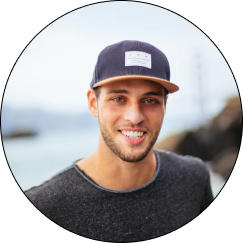
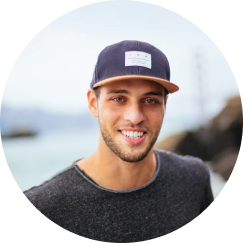
mobile version for homepage

diff --git a/src/css/styles.css b/src/css/styles.css
@@ -479,6 +479,7 @@ html {
 }
 .box {
   width: 100%;
+  min-width: 18.75rem;
   box-sizing: border-box;
 }
 .box.box--header {
@@ -495,10 +496,19 @@ html {
   background-color: #EDF7FA;
 }
 
+.posts {
+  padding-top: 0.00625rem;
+  padding-bottom: 0.9375rem;
+}
 .posts .posts__header--more {
   display: flex;
   justify-content: space-between;
   align-items: baseline;
+}
+@media screen and (max-width: 600px) {
+  .posts .posts__header--more {
+    display: block;
+  }
 }
 .posts .posts__hdl {
   font-size: 1.375rem;
@@ -506,12 +516,22 @@ html {
   font-family: "Heebo Regular", sans-serif;
   color: #21243D;
 }
+@media screen and (max-width: 600px) {
+  .posts .posts__hdl {
+    text-align: center;
+  }
+}
 .posts .posts__link {
   font-size: 1rem;
   line-height: 1.2;
   font-family: "Heebo Regular", sans-serif;
   color: #00A8CC;
   text-decoration: none;
+}
+@media screen and (max-width: 600px) {
+  .posts .posts__link {
+    display: none;
+  }
 }
 .posts .posts__content {
   display: flex;
@@ -539,6 +559,15 @@ html {
   display: flex;
   align-items: center;
   justify-content: space-between;
+  padding-top: 0.9375rem;
+  padding-bottom: 0.9375rem;
+  box-sizing: border-box;
+}
+@media screen and (max-width: 600px) {
+  .intro {
+    flex-direction: column-reverse;
+    justify-content: center;
+  }
 }
 .intro .intro__lead {
   display: block;
@@ -546,8 +575,18 @@ html {
 .intro .intro__item {
   width: 100%;
 }
+@media screen and (max-width: 600px) {
+  .intro .intro__item {
+    text-align: center;
+  }
+}
 .intro .intro__item.intro__item--align {
   text-align: right;
+}
+@media screen and (max-width: 600px) {
+  .intro .intro__item.intro__item--align {
+    text-align: center;
+  }
 }
 .intro .intro__hdl {
   margin-bottom: 1.375rem;
@@ -555,6 +594,11 @@ html {
   line-height: 1.4;
   font-family: "Heebo Bold", sans-serif;
   color: #21243D;
+}
+@media screen and (max-width: 600px) {
+  .intro .intro__hdl {
+    font-size: 2rem;
+  }
 }
 .intro .intro__text {
   margin-bottom: 1.875rem;
@@ -568,6 +612,14 @@ html {
   height: auto;
   max-width: 15.1875rem;
   max-height: 15.1875rem;
+  box-shadow: -5px 13px 0 0 #EDF7FA;
+  border-radius: 50%;
+}
+@media screen and (max-width: 600px) {
+  .intro .intro__avatar {
+    max-width: 10.625rem;
+    max-height: 10.625rem;
+  }
 }
 
 .btn {
@@ -598,6 +650,12 @@ html {
   color: #21243D;
   margin-right: 1.25rem;
   margin-bottom: 1.25rem;
+}
+@media screen and (max-width: 600px) {
+  .card {
+    width: 100%;
+    margin-right: 0;
+  }
 }
 .card:nth-child(even) {
   margin-right: 0;
@@ -640,11 +698,22 @@ html {
   padding-bottom: 0.9375rem;
   margin-bottom: 1.875rem;
 }
+@media screen and (max-width: 600px) {
+  .case {
+    flex-direction: column;
+  }
+}
 .case .case__img {
   width: 100%;
   max-width: 15.375rem;
   border-radius: 0.375rem;
   margin-right: 0.9375rem;
+}
+@media screen and (max-width: 600px) {
+  .case .case__img {
+    max-width: 100%;
+    margin-bottom: 0.9375rem;
+  }
 }
 .case .case__hdl {
   font-size: 1.875rem;

diff --git a/src/scss/components/intro.scss b/src/scss/components/intro.scss
@@ -3,6 +3,13 @@
   display: flex;
   align-items: center;
   justify-content: space-between;
+  padding-top: rem(15px);
+  padding-bottom: rem(15px);
+  box-sizing: border-box;
+  @include mq('sm') {
+    flex-direction: column-reverse;
+    justify-content: center;
+  }
 
   #{&}__lead {
     display: block;
@@ -10,9 +17,15 @@
 
   #{&}__item {
     width: 100%;
+    @include mq('sm') {
+      text-align: center;
+    }
 
     &.intro__item--align {
       text-align: right;
+      @include mq('sm') {
+        text-align: center;
+      }
     }
 
   }
@@ -20,6 +33,9 @@
   #{&}__hdl {
     margin-bottom: rem(22px);
     @include hdl(44px, $line-height: 1.4, $weight: 'Bold');
+    @include mq('sm') {
+      font-size: rem(32px);
+    }
   }
 
   #{&}__text {
@@ -32,5 +48,11 @@
     height: auto;
     max-width: rem(243px);
     max-height: rem(243px);
+    box-shadow: -5px 13px 0 0 $secondary-light;
+    border-radius: 50%;
+    @include mq('sm') {
+      max-width: rem(170px);
+      max-height: rem(170px);
+    }
   }
 }

diff --git a/src/scss/components/posts.scss b/src/scss/components/posts.scss
@@ -1,23 +1,35 @@
 .posts {
+  padding-top: rem(0.1px);
+  padding-bottom: rem(15px);
+
   #{&}__header--more {
     display: flex;
     justify-content: space-between;
     align-items: baseline;
+    @include mq('sm') {
+      display: block;
+    }
   }
 
   #{&}__hdl {
     @include hdl;
+    @include mq('sm') {
+      text-align: center;
+    }
   }
 
   #{&}__link {
     @include paragraph($line-height: 1.2, $color: $secondary);
     text-decoration: none;
+    @include mq('sm') {
+      display: none;
+    }
   }
 
   #{&}__content {
-      display: flex;
-      justify-content: space-between;
-      align-items: stretch;
-      flex-wrap: wrap;
+    display: flex;
+    justify-content: space-between;
+    align-items: stretch;
+    flex-wrap: wrap;
   }
 }

diff --git a/src/scss/components/case.scss b/src/scss/components/case.scss
@@ -5,11 +5,19 @@
   border-bottom: rem(1px) solid $light-1;
   padding-bottom: rem(15px);
   margin-bottom: rem(30px);
+
+  @include mq('sm'){
+    flex-direction: column;
+  }
   #{&}__img{
     width: 100%;
     max-width: rem(246px);
     border-radius: rem(6px);
     margin-right: rem(15px);
+    @include mq('sm'){
+      max-width: 100%;
+      margin-bottom: rem(15px);
+    }
   }
   #{&}__box{}
   #{&}__hdl{

diff --git a/src/scss/components/card.scss b/src/scss/components/card.scss
@@ -7,7 +7,11 @@
   color: $dark;
   margin-right: rem(20px);
   margin-bottom: rem(20px);
-  &:nth-child(even){
+  @include mq('sm') {
+    width: 100%;
+    margin-right: 0;
+  }
+  &:nth-child(even) {
     margin-right: 0;
   }
   #{&}__hdl{

diff --git a/src/scss/partials/_variables.scss b/src/scss/partials/_variables.scss
@@ -18,3 +18,9 @@ $font-path: '../fonts/';
 
 //layout
 $breakpoint-lg: 855px;
+
+$breakpoints: (
+        "sm": '(max-width: 600px)',
+        "md": '(max-width: 991px)',
+        "lg": '(max-width: 1200px)'
+);

diff --git a/src/scss/main.scss b/src/scss/main.scss
@@ -6,6 +6,7 @@
 @import "partials/fonts";
 
 @import "partials/functions";
+@import "partials/mixins";
 @import "partials/typography";
 
 @import "partials/layout";

diff --git a/src/scss/partials/_mixins.scss b/src/scss/partials/_mixins.scss
@@ -1,0 +1,7 @@
+@mixin mq($bp: 'lg'){
+  $bp-value: map-get($breakpoints, $bp);
+
+  @media screen and #{$bp-value} {
+    @content;
+  }
+}

diff --git a/src/scss/partials/_layout.scss b/src/scss/partials/_layout.scss
@@ -1,5 +1,6 @@
 .box {
   width: 100%;
+  min-width: rem(300px);
   box-sizing: border-box;
   &#{&}--header {
     display: flex;
